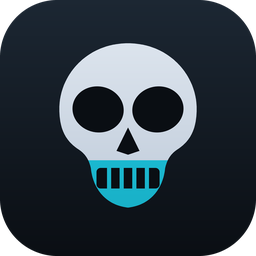
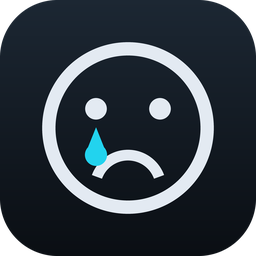
Give every panel room, and show the program that actually ships
Two things, both found by rendering the app rather than reading it.

A defect I introduced in the previous commit. Lowering the opening window
to 420 was right for an audio-only rig, but ModalCard sizes itself to
getHeight() - 32 and TRUNCATES what will not fit -- it is not inside a
viewport, so there is nothing to scroll. At 420 the save-location prompt's
buttons sat past the bottom edge. That does not look broken; it looks like
a prompt that cannot be answered, on the one screen standing between the
user and a recording. Settings had the milder version of it, opening with
four rows visible and the rest behind a scrollbar.

So the window growth added for the camera row is now general: every panel
and card that opens over the main screen asks for its own height on the
way in. Settings grows the window from 420 to 1100, the save prompt to
603, and both arrive whole.

The README's screenshots were the other half. All four predated the
SobStage redesign -- they showed vertical skull tiles, no masthead, an
older footer -- and the icon was the pre-rename skull. A project whose
pictures show a different program than the one you download has told you
something before you run it. All five images are regenerated from the
v1.0.0 binary, the last by driving a real take from record to stop, and
the prose that described the old layout is rewritten to describe this one.

Also adds what a reader looking at this cold has to dig for today: CI and
[…]

Changed region(s): [[0.1562, 0.1562, 0.8438, 0.8438]]

diff --git a/Source/UI/MainComponent.cpp b/Source/UI/MainComponent.cpp
@@ -379,6 +379,13 @@ void MainComponent::showSaveLocationPrompt()
                                 application.getCameraController().getSelection().getEnabledCount());
 
     saveLocationPrompt.setBlockedReason (application.getRecordDisabledReason());
+    // Room for the whole card BEFORE it is shown. ModalCard clamps itself to
+    // the window (getHeight() - 32) and truncates what will not fit -- it is
+    // not inside a viewport, so there is nothing to scroll. In a short window
+    // that put this card's buttons past the bottom edge, which does not look
+    // broken; it looks like a prompt that cannot be answered.
+    growWindowToFit (saveLocationPrompt.getRequiredHeight() + 32);
+
     saveLocationPrompt.setBounds (getLocalBounds());
     saveLocationPrompt.setVisible (true);
     saveLocationPrompt.toFront (true);
@@ -413,6 +420,8 @@ void MainComponent::showRecoveredTakes()
     }
 
     recoveredTakesPanel.setTakes (rows);
+    growWindowToFit (recoveredTakesPanel.getRequiredHeight() + 32);
+
     recoveredTakesPanel.setBounds (getLocalBounds());
     recoveredTakesPanel.setVisible (true);
     recoveredTakesPanel.toFront (true);
@@ -451,6 +460,8 @@ void MainComponent::showSavedTake()
         rows.push_back ({ file.name, file.sizeBytes });
 
     savedTakePanel.setTake (take.folder, take.mirrorFolder, rows);
+    growWindowToFit (savedTakePanel.getRequiredHeight() + 32);
+
     savedTakePanel.setBounds (getLocalBounds());
     savedTakePanel.setVisible (true);
     savedTakePanel.toFront (true);
@@ -783,7 +794,10 @@ void MainComponent::toggleCameras()
     mainViewport.setVisible (! cameraVisible && ! advancedVisible);
 
     if (cameraVisible)
+    {
         cameraViewport.setViewPosition (0, 0);
+        growWindowToFit (cameraPanel.getRequiredHeight());
+    }
 
     resized();
 }
@@ -844,6 +858,11 @@ void MainComponent::refreshCameras()
 
 void MainComponent::growWindowToFitMainScreen()
 {
+    growWindowToFit (mainScreen.getPreferredHeight());
+}
+
+void MainComponent::growWindowToFit (int contentHeight)
+{
     // The window, not this component: setSize() on a DocumentWindow's content
     // resizes the frame around it, which is the thing with the title bar and
     // the position on screen.
@@ -864,7 +883,7 @@ void MainComponent::growWindowToFitMainScreen()
     // so the difference is measured rather than assumed -- a guess here is a
     // few pixels of clipping on one platform and not the other.
     const int chrome = juce::jmax (0, window->getHeight() - getHeight());
-    const int wanted = mainScreen.getPreferredHeight() + 24 + chrome;
+    const int wanted = contentHeight + 24 + chrome;
 
     // Only ever grows. A camera switched off leaves the window where it is:
     // shrinking it would throw away a size the user may have set by hand, and
@@ -918,7 +937,16 @@ void MainComponent::toggleAdvanced()
     // Back to the top on entry, so opening Settings never starts halfway down
     // wherever it was last left.
     if (advancedVisible)
+    {
         advancedViewport.setViewPosition (0, 0);
+
+        // And give it room. The main screen opens the window at the height an
+        // audio-only rig needs, which is shorter than Settings -- so without
+        // this, opening Settings showed its first four rows and put the rest
+        // behind a scrollbar. Every panel that can be opened over the main
+        // screen asks for its own height on the way in.
+        growWindowToFit (advancedPanel.getRequiredHeight());
+    }
 
     resized();
 }

diff --git a/Source/UI/MainComponent.h b/Source/UI/MainComponent.h
@@ -56,6 +56,11 @@ private:
     /// asked for. Only ever grows: shrinking would undo a window the user sized
     /// themselves. Bounded by the display, so it cannot walk off the screen.
     void growWindowToFitMainScreen();
+
+    /// The same, for any content height -- the panels that open over the main
+    /// screen ask for their own on the way in, so none of them opens showing
+    /// its first few rows with the rest behind a scrollbar.
+    void growWindowToFit (int contentHeight);
     int lastMicCount = -1;
     int lastAdvancedMicCount = -1;
     int framesUntilStatusRefresh = 1;

diff --git a/README.md b/README.md
@@ -1,10 +1,18 @@
 <p align="center">
-  <img src="docs/images/app-icon.png" alt="SobStage icon: a bone skull on slate, filled from the jaw up with the accent, the way the app's own level meters fill" width="128">
+  <img src="docs/images/app-icon.png" alt="SobStage icon: a sobbing face on slate -- a bone ring, two eyes, a frown, and a single cyan tear, the one saturated thing in the mark" width="128">
 </p>
 
 # SobStage
 
 ### Multi-microphone aggregator, recorder, and monitor
+
+<p align="center">
+  <a href="https://github.com/taylordrew4u2/usbmic/actions/workflows/ci.yml"><img src="https://github.com/taylordrew4u2/usbmic/actions/workflows/ci.yml/badge.svg" alt="CI"></a>
+  <a href="https://github.com/taylordrew4u2/usbmic/releases/latest"><img src="https://img.shields.io/github/v/release/taylordrew4u2/usbmic?label=release" alt="Latest release"></a>
+  <img src="https://img.shields.io/badge/tests-375%20passing-brightgreen" alt="375 tests passing">
+  <img src="https://img.shields.io/badge/C%2B%2B-17-blue" alt="C++17">
+  <img src="https://img.shields.io/badge/platforms-macOS%20%7C%20Windows%20%7C%20Linux-lightgrey" alt="Platforms">
+</p>
 
 Cross-platform desktop application (macOS + Windows) that aggregates up to 8 USB
 microphones, records every microphone to discrete files plus one summed mix
@@ -14,6 +22,41 @@ mix to everyone in the room.
 The full build specification lives in [`docs/SPEC.md`](docs/SPEC.md) and is the
 source of truth for every constant and behavior in this codebase. Where the code
 implements a spec rule, the section number is cited in a comment.
+
+---
+
+## The engineering problem, in one paragraph
+
+Eight USB microphones are eight independent crystal oscillators. No two tick at
+exactly the same rate, so over a four-hour take the tracks slide apart — and a
+multitrack recording whose tracks do not line up is not a recording, it is eight
+files. Fixing that means resampling seven streams continuously against a
+reference, in a callback that may not allocate, may not lock, and may not log,
+while also writing 24-bit audio to disk and feeding a monitor mix back out under
+a latency budget small enough that nobody in the room hears themselves late.
+
+**Measured result: 0.021 ms of inter-channel drift after a four-hour soak,
+against a 1 ms ceiling — a 47× margin.**
+
+| | |
+|---|---|
+| **Clock drift** | PI-loop asynchronous sample-rate conversion, corrected from ring-buffer fill error, clamped to ±200 PPM and slewed at 5 PPM/s so a correction is never audible. The master is a *reference*, not an exemption — it is resampled too. |
+| **Real-time safety** | No allocation, no locking, no logging and no file I/O on any audio thread. Cross-thread handoff is SPSC lock-free ring buffers with acquire/release publication. |
+| **Loudness** | A from-scratch ITU-R BS.1770-4 implementation — K-weighting, 400 ms blocks at 75% overlap, −70 LUFS absolute and −10 LU relative gating, true peak by 4× oversampling. Verified against the standard's own reference tones to **within 0.02 LU** at 44.1, 48 and 96 kHz. |
+| **Never lose audio silently** | A dropped sample is *reported*, never quietly swallowed. Empty files say they are empty rather than presenting as a successful take — see the last screenshot below. |
+| **Testing what cannot be run** | CoreAudio and WASAPI cannot compile on Linux, so the *unmodified* backend sources are compiled against stand-in OS headers and driven by simulated device layers that reproduce the awkward shapes real hardware takes. This found five user-facing defects that were otherwise unreachable from any available machine. |
+
+375 unit tests, two long-running capture harnesses and two platform simulators
+run on macOS, Windows and Linux on every commit.
+
+### Honest limits
+
+The section that is unusual, and deliberate: **[Current status](#current-status)**
+enumerates exactly what has been verified and what has not, at the granularity of
+"compiled" vs "executed" vs "run against real hardware". No recording has yet
+been made from a physical microphone on macOS or Windows. That is stated here,
+in the release notes, and in the platform table below — rather than left for
+someone to discover.
 
 > **Read [Current status](#current-status) before running this on anything you
 > care about.** The engine is complete and measured. The macOS and Windows audio
@@ -28,10 +71,12 @@ implements a spec rule, the section number is cited in a comment.
   <img src="docs/images/main-screen.png" alt="The main screen: three channel strips side by side, a summed mix bar, a session name field, the record button, and a row with monitor volume, mute and Settings" width="660">
 </p>
 
-One channel strip per microphone, laid out like a mixing desk: a skull that
-fills with the level, a peak-hold bar, and the name at its foot. Under them the
-summed mix, the take name, and the one button worth pressing. Everything else —
-how much room is left, where the files are going — sits quietly beneath it.
+One strip per microphone: a skull that fills with the level, the name, a
+peak-hold bar and the number. The summed **MIX** sits on the same row in its own
+lighter cell, because §9.1 requires the bus to be distinguishable from a channel
+at a glance rather than by reading the label. Under them the take name and the
+one button worth pressing; everything else — how much room is left, where the
+files are going, the monitor level — sits quietly in the footer.
 
 <p align="center">
   <img src="docs/images/settings.png" alt="Settings: sections for where recordings go, recording format, and microphones, with a storage picker, per-microphone checkboxes and the clock master control" width="660">
@@ -39,8 +84,10 @@ how much room is left, where the files are going — sits quietly beneath it.
 
 Settings is one screen with a Done button at the top left. Where recordings go
 comes first, because picking a card before a take is what most people open it
-for. Then the format, then which microphones to record and which one carries the
-clock — explained where it is set, rather than assumed.
+for. Then the format, where the take is being delivered (which sets the loudness
+target), and which microphones to record and which one carries the clock — each
+explained where it is set, rather than assumed. Opening it grows the window to
+fit the panel, so nothing arrives already scrolled.
 
 <p align="center">
   <img src="docs/images/save-prompt.png" alt="A card over the main screen headed 'Where does this recording go?', with a name field, the destination folder, the folder name this take will create, the list of files it will contain, the backup copy's location, an 'ask me every time' checkbox, and buttons reading Not yet, Choose a different folder and Start recording" width="660">
@@ -60,13 +107,20 @@ And when the take stops, the files themselves — named, with their sizes, and a
 button that opens the folder. This shot is the virtual-microphone rig, so the
 files really are empty and the card says so instead of calling it saved.
 
-> All four shots are rendered headless on a Linux container by
-> [`Tools/screenshot_app.sh`](Tools/screenshot_app.sh), against the virtual ALSA
-> microphones [`Tools/setup_alsa_fixture.sh`](Tools/setup_alsa_fixture.sh)
-> creates. That rig serves file-backed devices, which §5.4's exclusive-mode gate
-> correctly refuses to record from — which is what the warning line is saying.
-> The strips read `-60.0`, the floor, because those devices deliver no audio; on
-> real hardware they carry live levels.
+> All four shots are of the v1.0.0 binary, rendered headless on a Linux
+> container by [`Tools/screenshot_app.sh`](Tools/screenshot_app.sh) against the
+> virtual ALSA microphones
+> [`Tools/setup_alsa_fixture.sh`](Tools/setup_alsa_fixture.sh) creates — the
+> last of them by driving an actual take from record to stop. That rig serves
+> file-backed devices, which §5.4's exclusive-mode gate correctly refuses to
+> record from, which is what the warning line is saying. The strips read
+> `-60.0`, the floor, because those devices deliver no audio; on real hardware
+> they carry live levels.
+>
+> Screenshots in a README go stale silently, and a project whose pictures show a
+> different program than the one you download has told you something before you
+> run it. These are regenerated from the shipping binary, and the version in the
+> masthead is there so any drift is visible rather than assumed.
 
 ## Download
 
